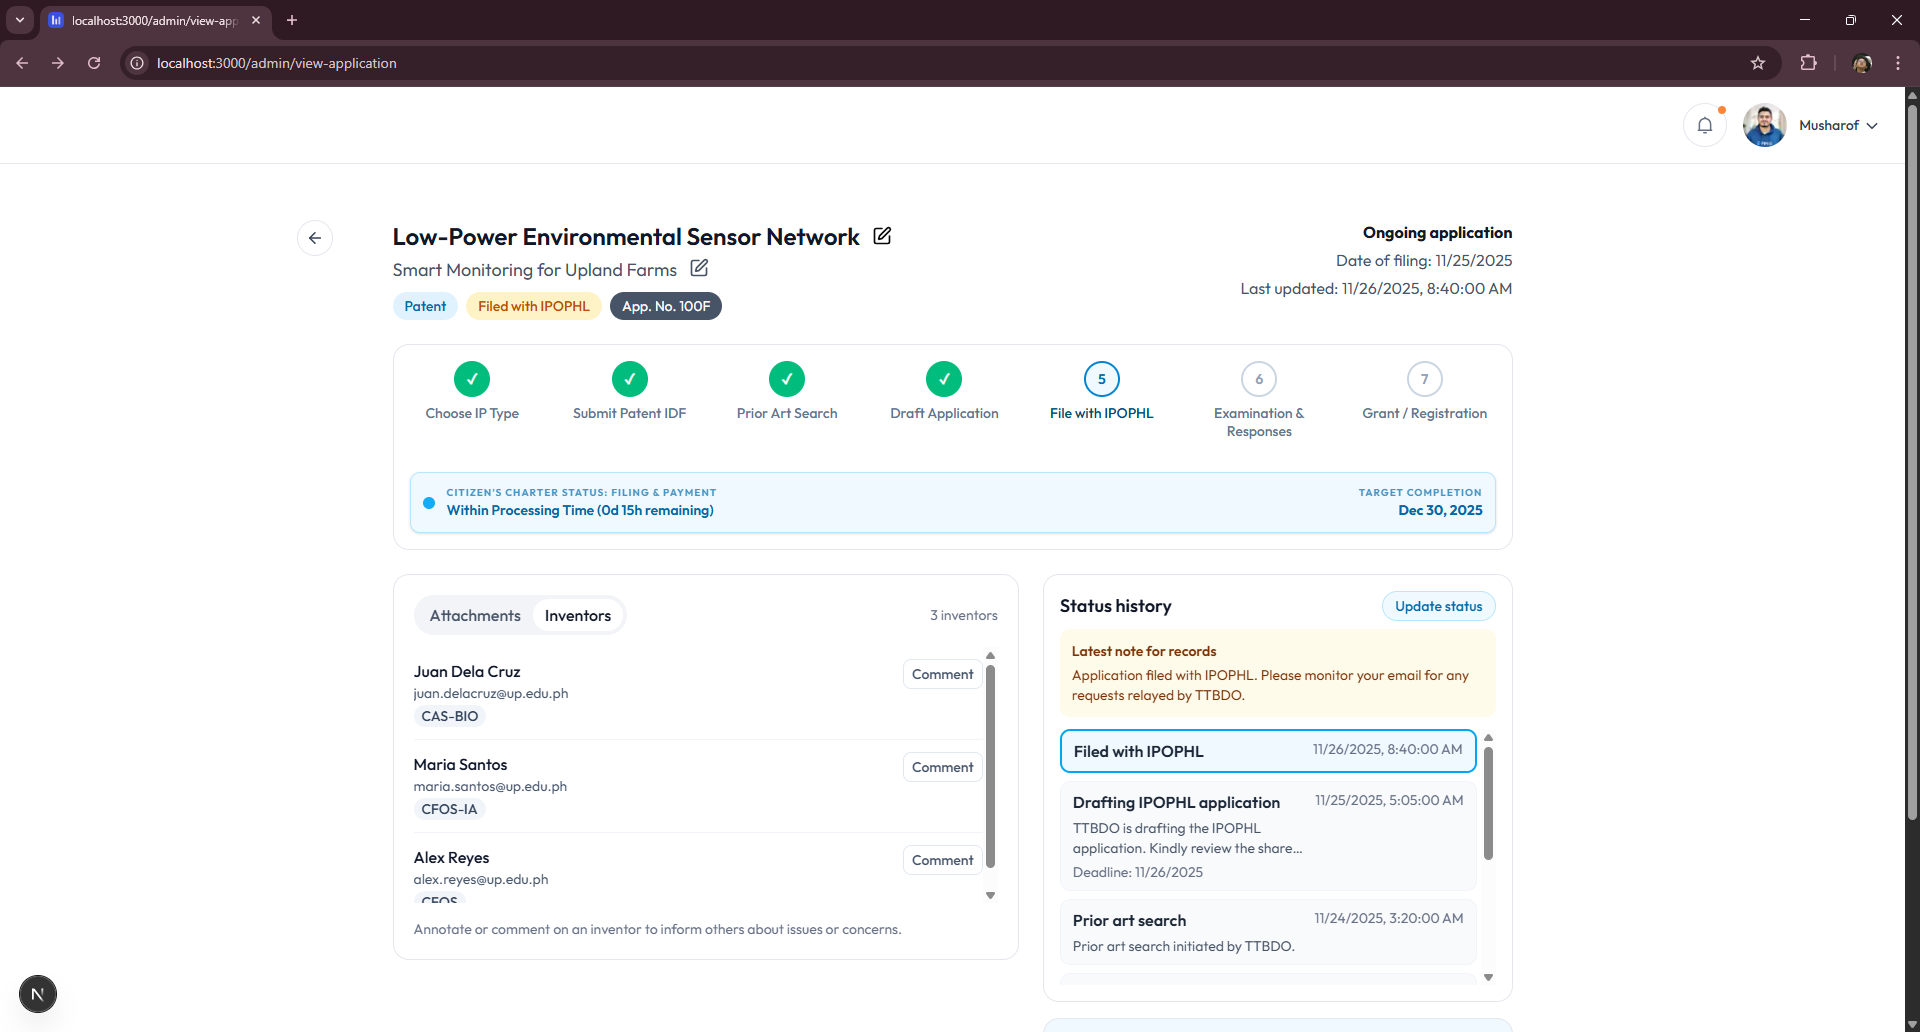
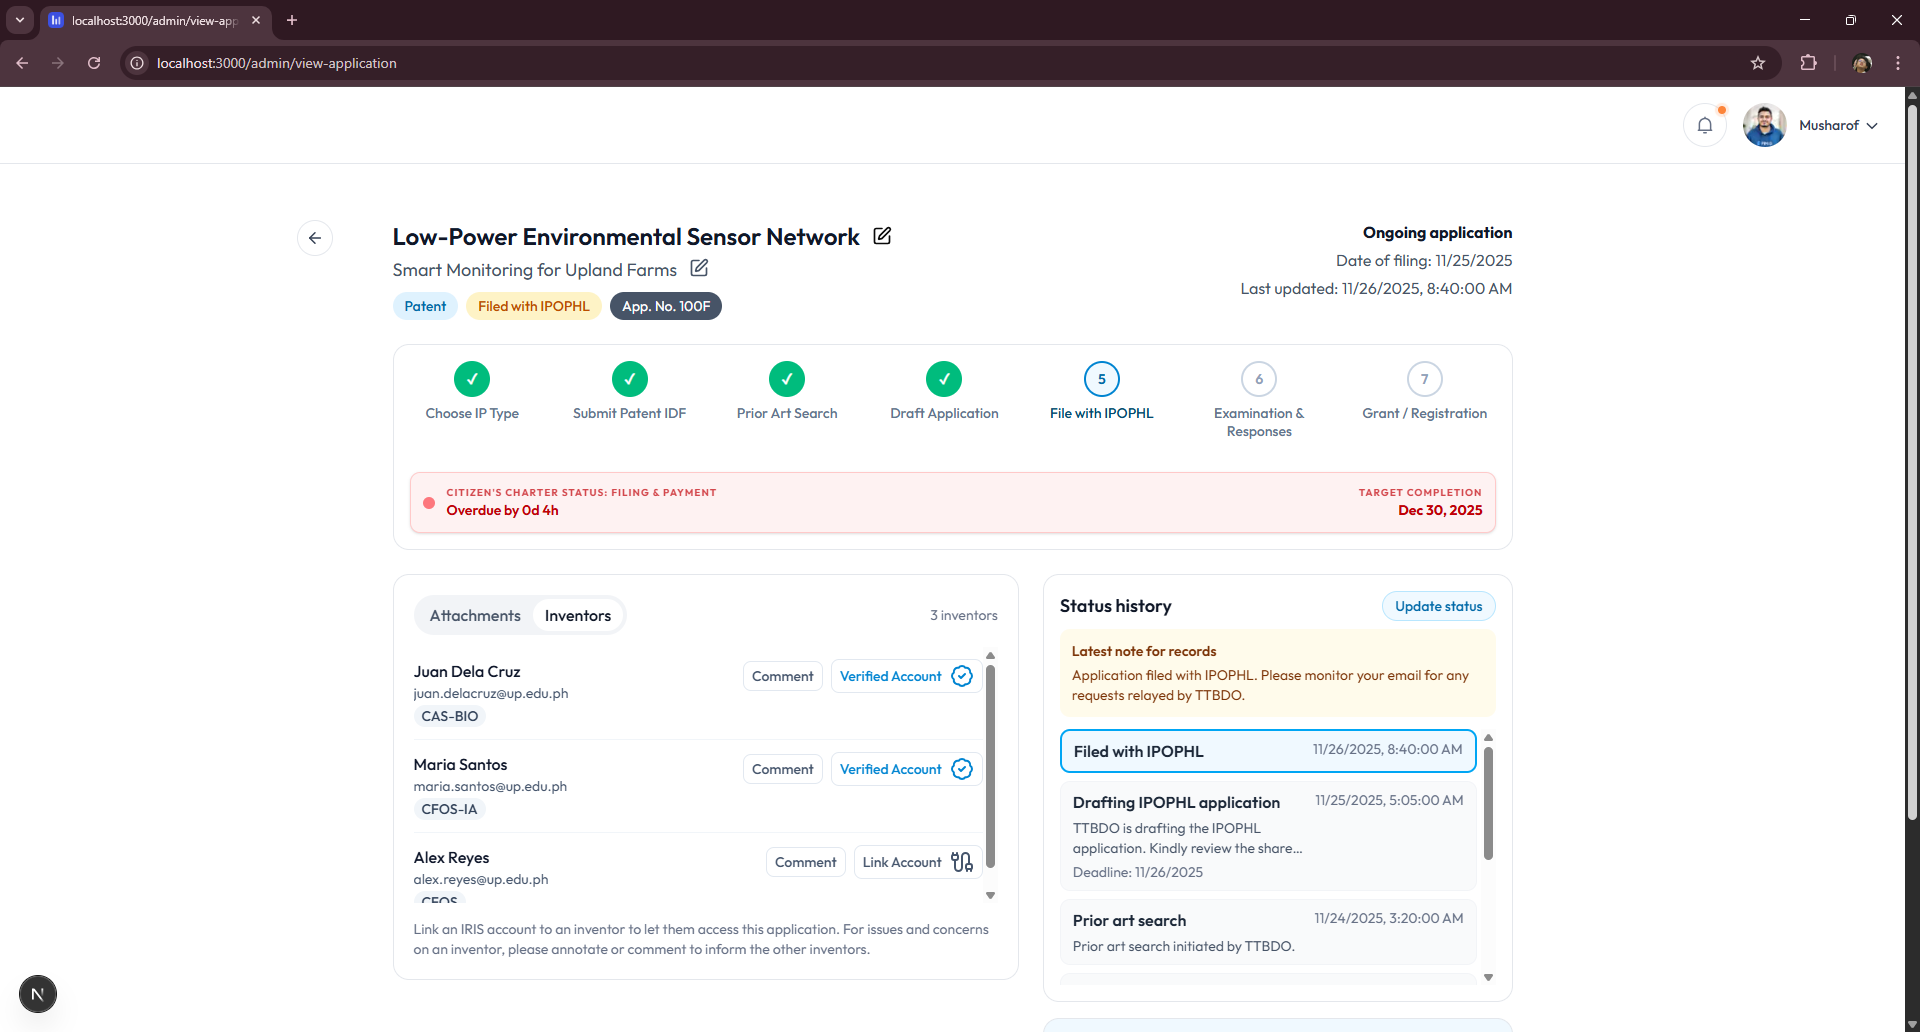
fix(paper/chap4): admins do the linking, and the tech gens can only view annotations for the inventors list

diff --git a/paper/chapter_4.tex b/paper/chapter_4.tex
@@ -16,7 +16,8 @@ The IRIS system prototype can handle authentication for registered accounts. It 
 Both the technology generators and the TTBDO admin can view a list of applications. They can also interact with a specific application, which prompts them to a different web page that shows specific details about that application.
 
 \subsubsection{Technology Generator View}
-The web page shown in \figref{fig:applicant_appview} shows the perspective of a technology generator when they want to view more details about a specific IP right application. It shows the current stage of the application, as well as the list of all status changes of the IP right application with timestamp (highlighting the latest status). Some steps on the trackbar of the application stage reflects the TTBDO's citizen charter where it shows whether the current step is within or over the processing time. IRIS allows create, remove, update, and delete (CRUD) operations on the attachments of the IP right application, but only on those that were uploaded by the user themselves; other users only have view privileges on other users' attachments. Since not all collaborators of the IP may have IRIS accounts, the co-applicants can list them as plain text, and then link their accounts if they have one in the system later on, as shown in \figref{fig:applicant_appviewB}. The technology generator can only view annotations provided by the TTBDO admin regarding other inventors listed for the application.
+The web page shown in \figref{fig:applicant_appview} shows the perspective of a technology generator when they want to view more details about a specific IP right application. It shows the current stage of the application, as well as the list of all status changes of the IP right application with timestamp (highlighting the latest status). Some steps on the trackbar of the application stage reflects the TTBDO's citizen charter where it shows whether the current step is within or over the processing time. IRIS allows create, remove, update, and delete (CRUD) operations on the attachments of the IP right application, but only on those that were uploaded by the user themselves; other users only have view privileges on other users' attachments. 
+The technology generator can only view annotations provided by the TTBDO admin regarding other inventors listed for the application.
 
 \begin{figure}[H]                
     \centering 
@@ -44,7 +45,8 @@ The web page shown in \figref{fig:applicant_appview} shows the perspective of a 
 
 \subsubsection{TTBDO Admin View}
 
-For the TTBDO admin's side, it is shown in \figref{fig:admin_appview} that it has the same IP right application details as the technology generators view. IRIS follows the same principles for CRUD operations on the admin's side for the attachments, but also extends the operations on the IP and project title. The TTBDO admin is responsible for updating the status of an application as well as moving the application to another stage of the application process. Certain steps that require deadlines are automatically calculated by the system, but the TTBDO admin can of course change this automatically suggested deadline as they see fit. They can also add annotations to the inventors listed in the application, which are only visible to them and the technology generator.  
+For the TTBDO admin's side, it is shown in \figref{fig:admin_appview} that it has the same IP right application details as the technology generators view. IRIS follows the same principles for CRUD operations on the admin's side for the attachments, but also extends the operations on the IP and project title. The TTBDO admin is responsible for updating the status of an application as well as moving the application to another stage of the application process. Certain steps that require deadlines are automatically calculated by the system, but the TTBDO admin can of course change this automatically suggested deadline as they see fit. 
+Since it is possible that not all collaborators of the IP have IRIS accounts, the co-applicants can list them as plain text upon the start of the application, and then the TTBDO admin can link their accounts if they have one in the system later on, as shown in \figref{fig:admin_appviewB}. The TTBDO admin can also add annotations to the inventors listed in the application, which are only visible to them and the technology generator.  
 
 % \begin{figure}[H]                
 %     \centering 
